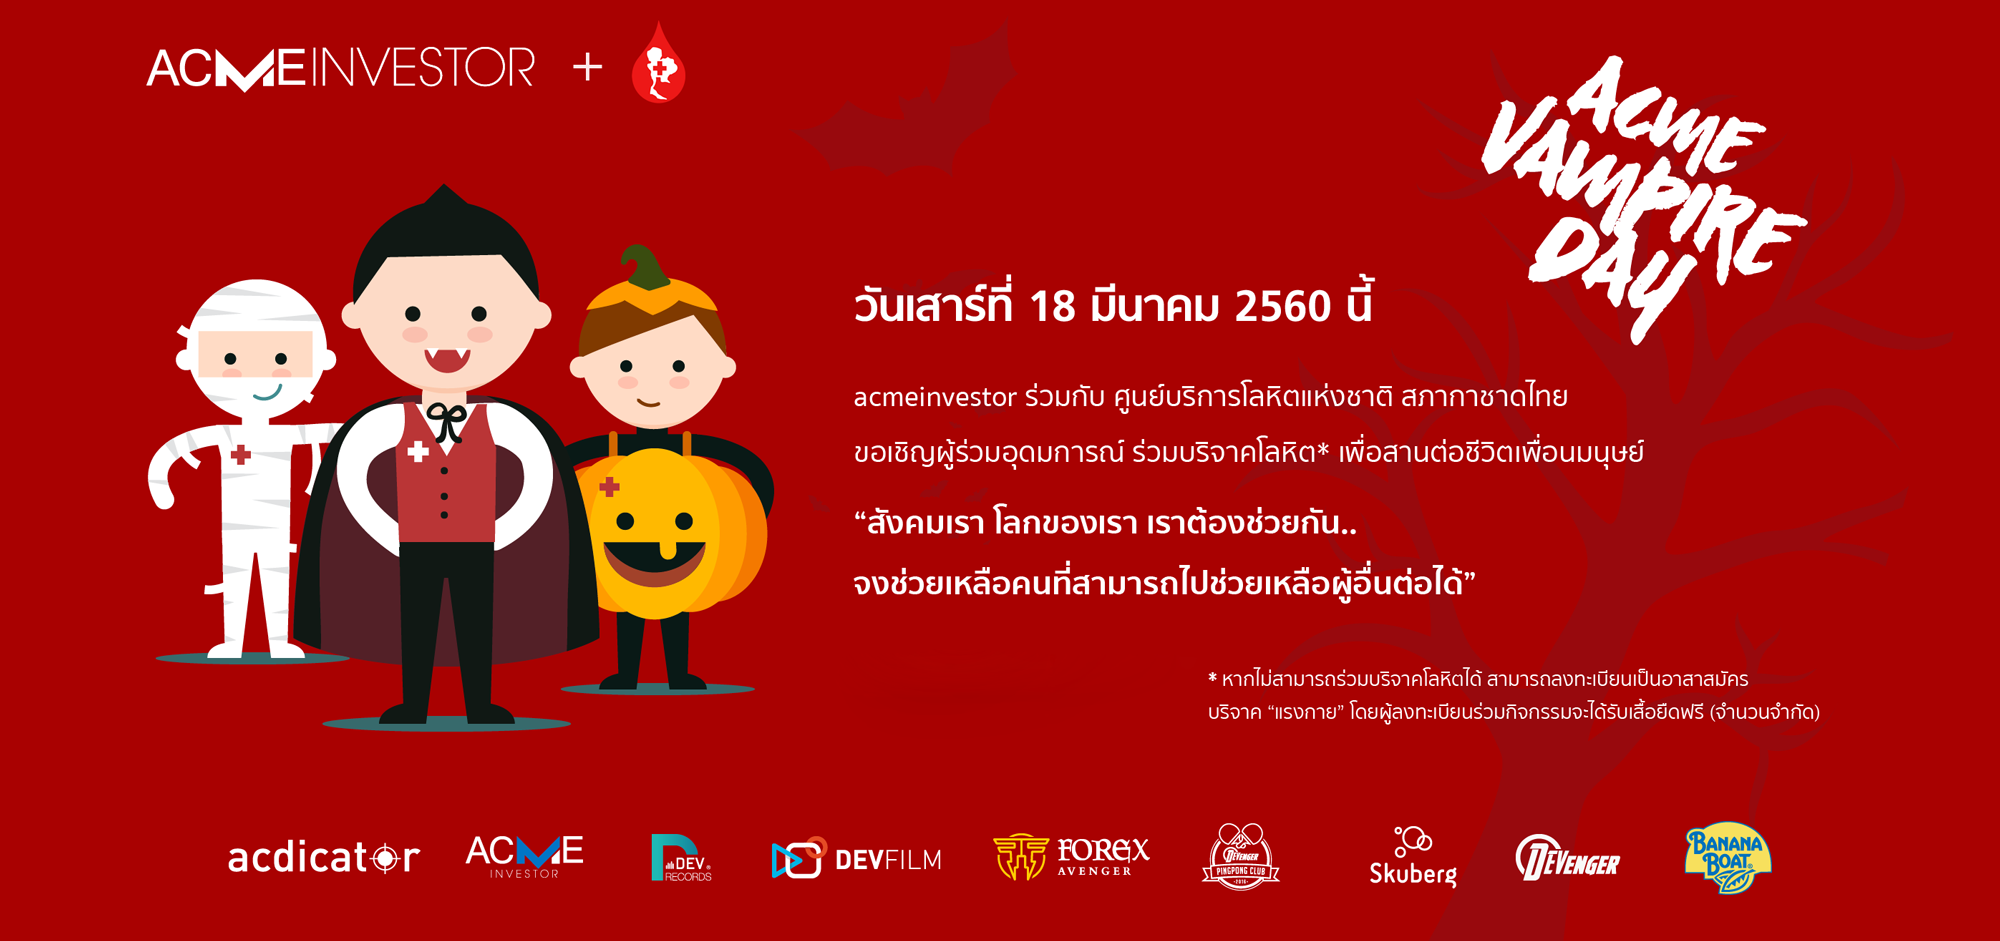
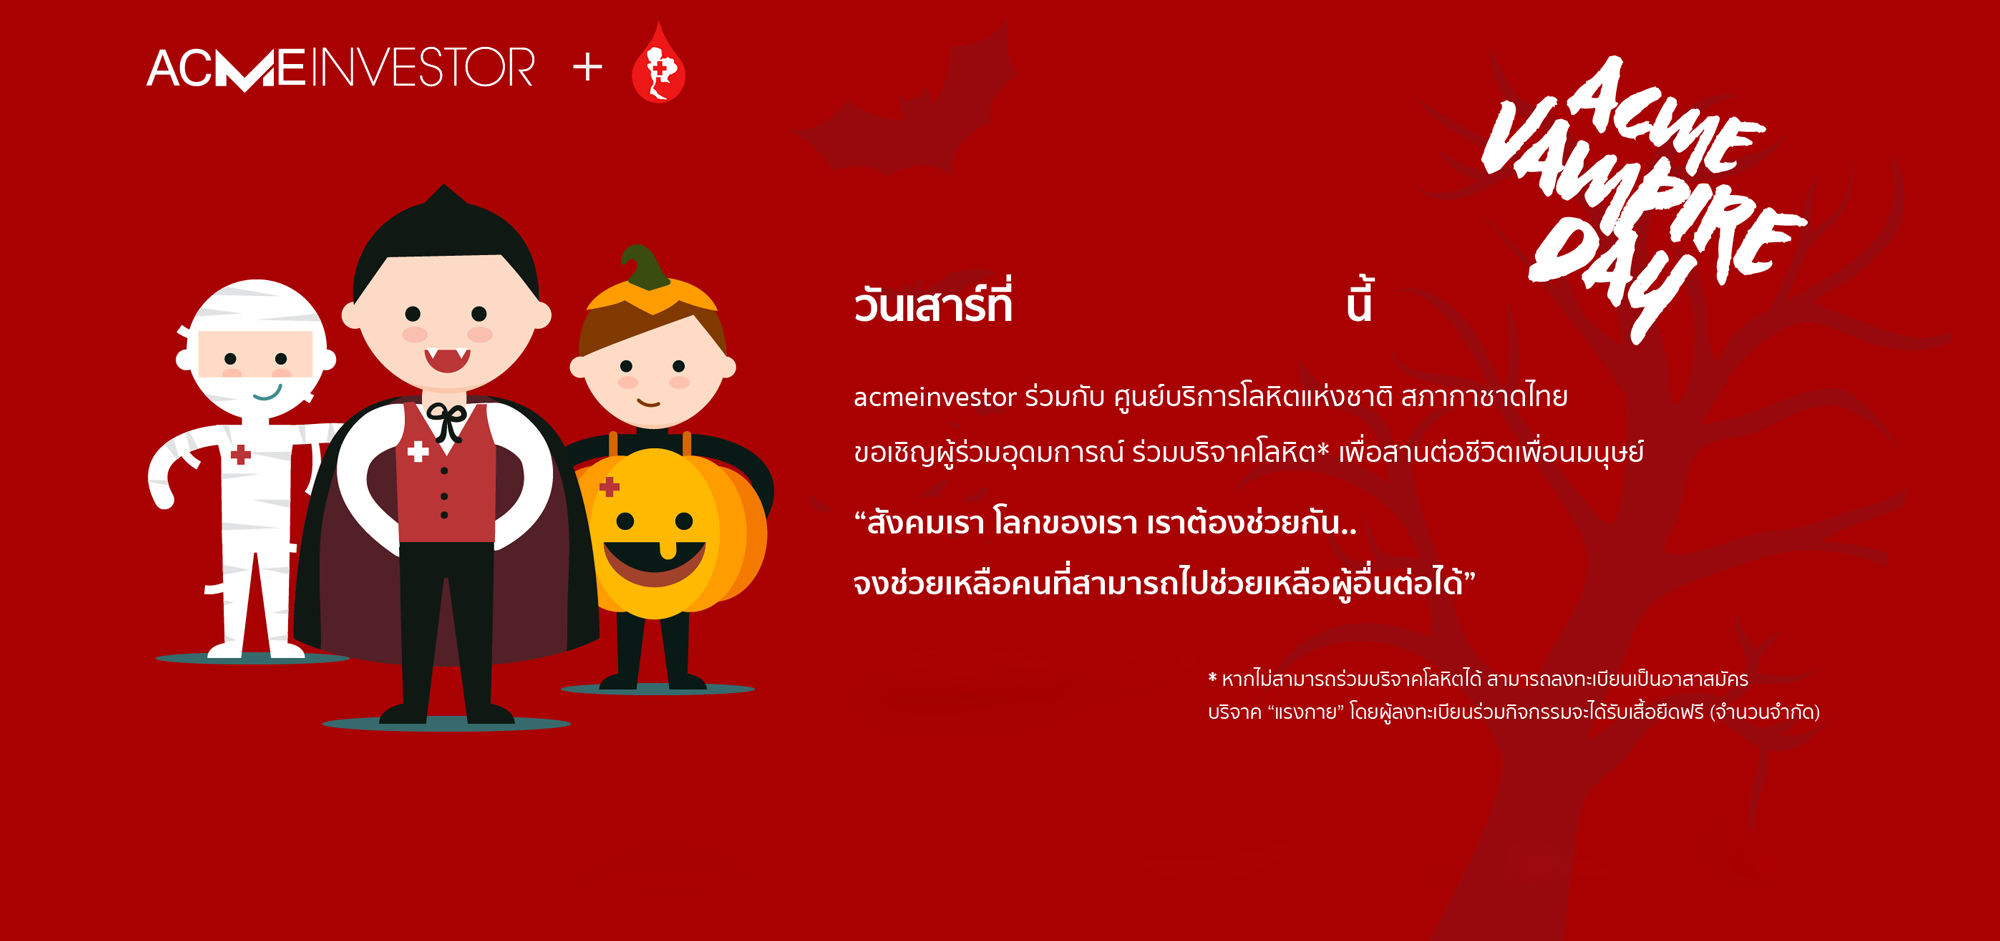
golf

diff --git a/resources/views/vampireday.blade.php b/resources/views/vampireday.blade.php
@@ -92,7 +92,7 @@
 
 
         <div class="container-fluid">
-     <img class="img-responsive" alt="Acme Vampire Day" src="{{url('assets/vampire/assets/image/vampiare.jpg')}}" />
+     <img class="img-responsive" alt="Acme Vampire Day" src="{{url('assets/vampire/assets/image/vampire_final.jpg')}}" />
 
  </div><!--end banner-->
 
